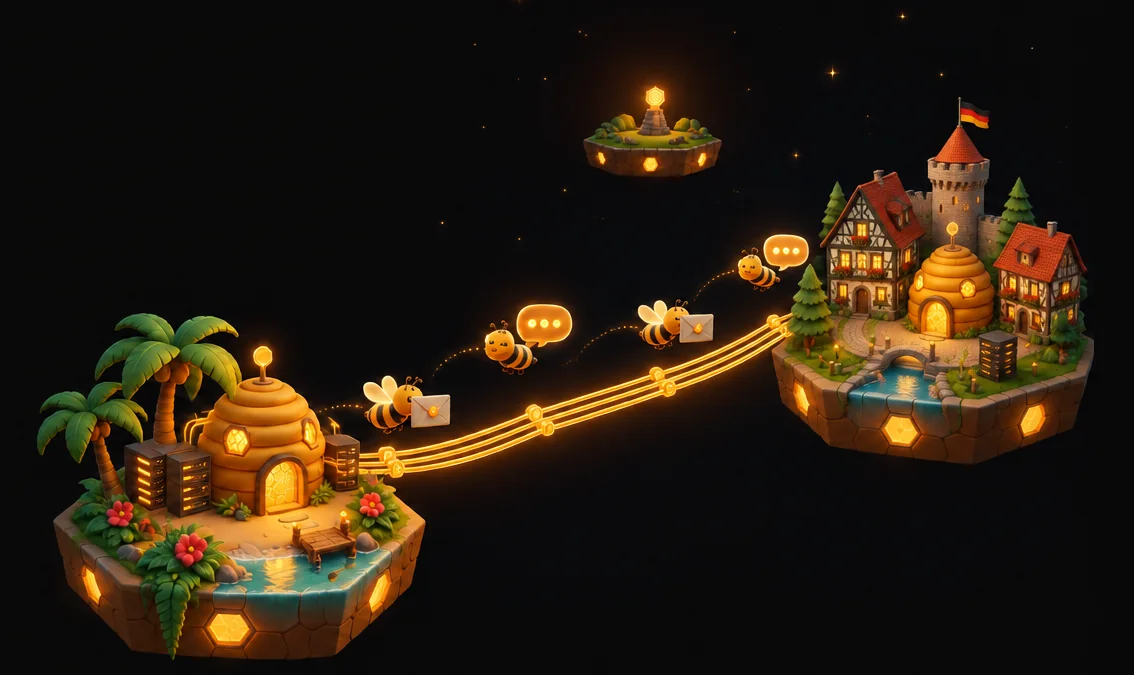
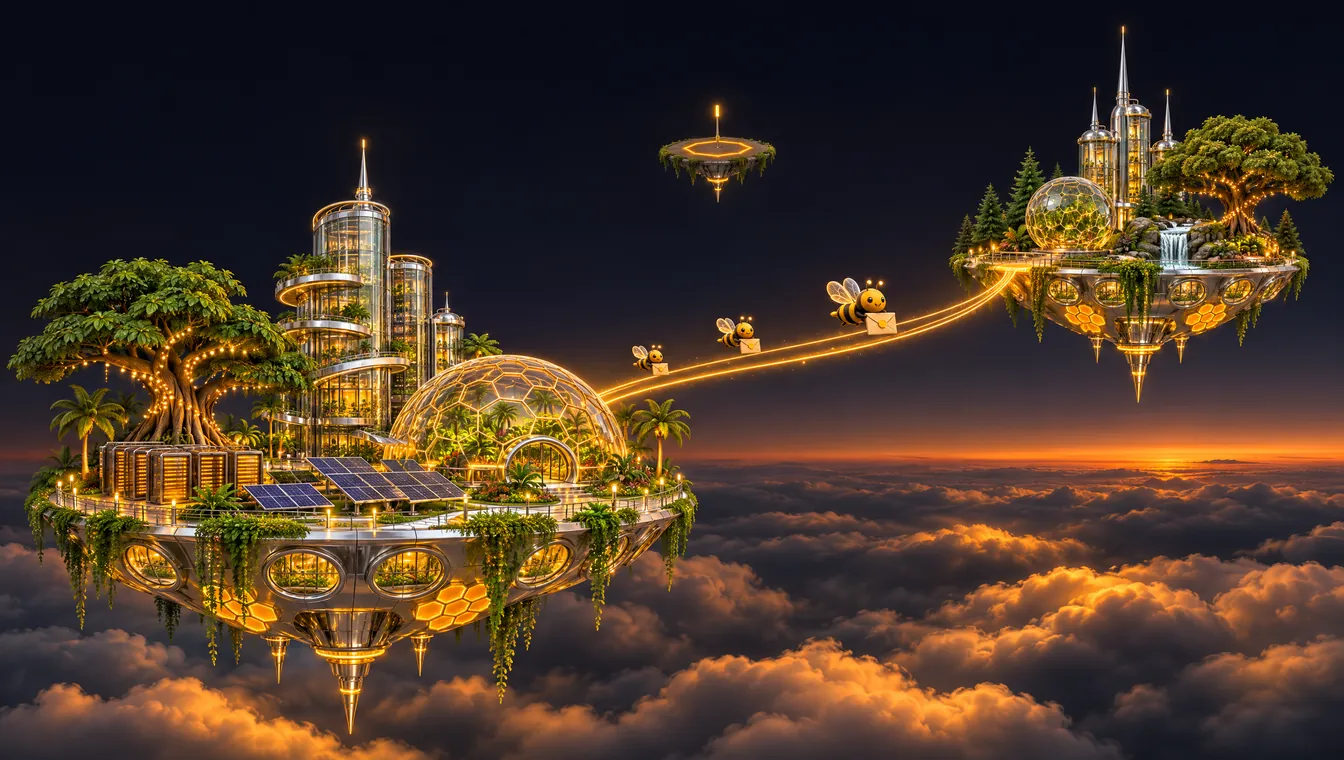
Site: new Live on SKINTERNET picture, two sky-city islands above the clouds

diff --git a/site/index.html b/site/index.html
@@ -520,7 +520,7 @@ section > h2:not(.lv-title)::before, .new-head h2::before, .status-head h2::befo
 .band-art.hive .win { aspect-ratio: 1344 / 500; }
 .band-art.hive .bst { inset: auto 0 -21% 0; }
 .band-art.isl .win { aspect-ratio: 1344 / 600; }
-.band-art.isl .bst { left: -2%; right: -2%; top: -15%; }
+.band-art.isl .bst { left: -2%; right: -2%; top: -7%; }
 .band-art .win::after { content: ""; position: absolute; inset: 0; pointer-events: none;
   background: linear-gradient(90deg, rgba(6,6,5,.55), transparent 30%, transparent 75%, rgba(6,6,5,.4)); }
 .band-art .cap { position: absolute; z-index: 3; left: 18px; bottom: 16px; max-width: 26em; color: #f3efe4; font-size: 14px; line-height: 1.45; }
@@ -528,7 +528,7 @@ section > h2:not(.lv-title)::before, .new-head h2::before, .status-head h2::befo
 @media (max-width: 860px) {
   .scene-e .set2 .pin.l[href="#services"] { display: none; }
   .band-art.hive .win { aspect-ratio: 4 / 3; } .band-art.hive .bst { left: -68%; right: -22%; bottom: -11%; }
-  .band-art.isl .win { aspect-ratio: 16 / 10; } .band-art.isl .bst { left: -1%; right: -4%; top: auto; bottom: -6%; }
+  .band-art.isl .win { aspect-ratio: 1344 / 720; } .band-art.isl .bst { left: -1%; right: -1%; top: -3%; bottom: auto; }
   .band-art .pin em { display: none; }
   .band-art .pin.hide-s { display: none; }
   .band-art .cap { position: static; padding: 10px 14px 12px; background: #060605; }
@@ -863,7 +863,7 @@ section>h2,.new-head h2,.status-head h2{font-size:clamp(28px,3.2vw,38px);letter-
       </div>
       <span class="lv-checked" id="lv-checked"></span>
     </div>
-    <figure class="band-art isl"><div class="win"><div class="bst"><img class="art" src="art/islands.webp" alt="Two islands joined by a glowing link: the Malaysia hub server and the Germany leaf server" loading="lazy" width="1134" height="675"><a class="pin live" style="--x:23.0%;--y:43.0%" href="#live"><i></i><s></s><span><b>irc.bajubesi.org</b><em>Malaysia · hub · </em><em data-live="p0">75 people</em></span></a><a class="pin live l" style="--x:82.3%;--y:29.0%" href="#live"><i></i><s></s><span><b>irc.skinhead.com.my</b><em>Germany · leaf · </em><em data-live="p1">22 people</em></span></a><a class="pin live hide-s" style="--x:45.5%;--y:46.8%" href="#live"><i></i><s></s><span><b data-live="link">linked</b></span></a><a class="pin next l hide-s" style="--x:57.4%;--y:15.6%" href="/docs/"><i></i><s></s><span><b>Your server next</b><em>link it in</em></span></a></div></div></figure><div class="lv-grid wait" id="lv-grid"><div class="lv-card" aria-hidden="true"></div><div class="lv-card" aria-hidden="true"></div></div>
+    <figure class="band-art isl"><div class="win"><div class="bst"><img class="art" src="art/islands.webp" alt="Two floating sky-city islands above the clouds, joined by a glowing gold link: the Malaysia hub server and the Germany leaf server" loading="lazy" width="1344" height="760"><a class="pin live" style="--x:26.5%;--y:32%" href="#live"><i></i><s></s><span><b>irc.bajubesi.org</b><em>Malaysia · hub · </em><em data-live="p0">75 people</em></span></a><a class="pin live l" style="--x:83%;--y:20%" href="#live"><i></i><s></s><span><b>irc.skinhead.com.my</b><em>Germany · leaf · </em><em data-live="p1">22 people</em></span></a><a class="pin live hide-s" style="--x:54%;--y:47%" href="#live"><i></i><s></s><span><b data-live="link">linked</b></span></a><a class="pin next l hide-s" style="--x:53.3%;--y:15%" href="/docs/"><i></i><s></s><span><b>Your server next</b><em>link it in</em></span></a></div></div></figure><div class="lv-grid wait" id="lv-grid"><div class="lv-card" aria-hidden="true"></div><div class="lv-card" aria-hidden="true"></div></div>
     <div class="lv-foot">
       <span class="lk" id="lv-link" hidden><i></i><span></span></span>
       <a href="ircs://irc.bajubesi.org:6697">Connect: irc.bajubesi.org :6697 &rarr;</a>
